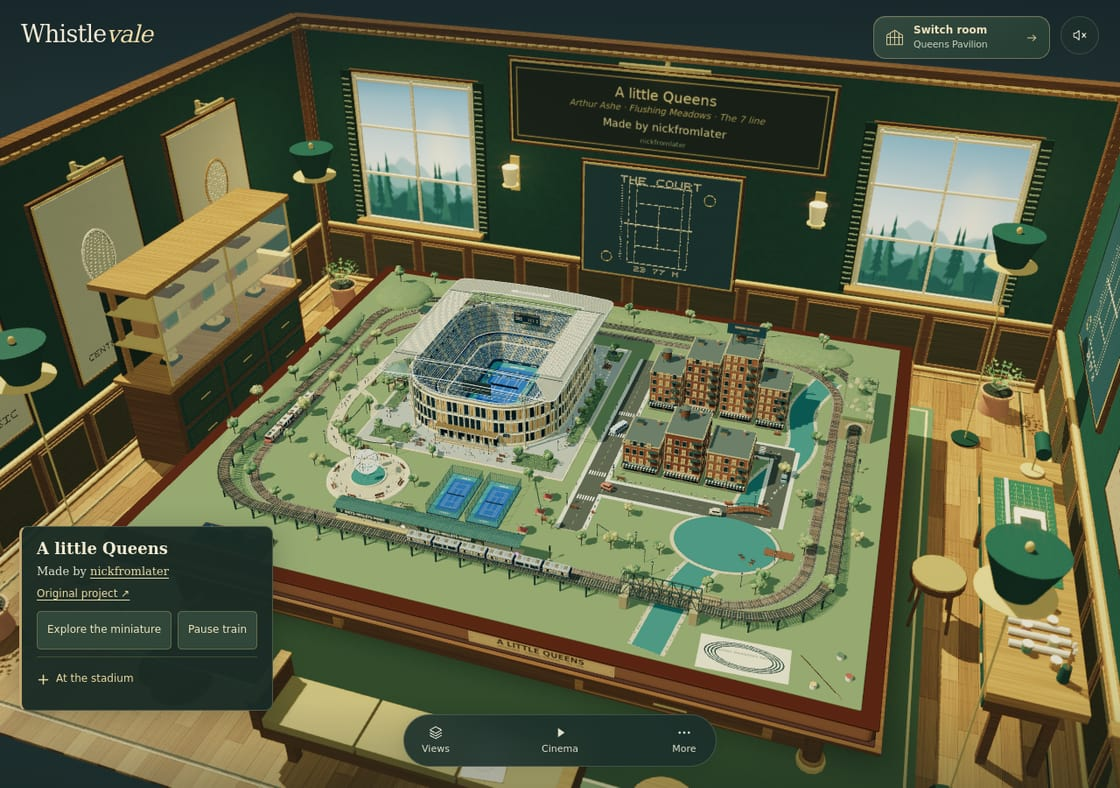
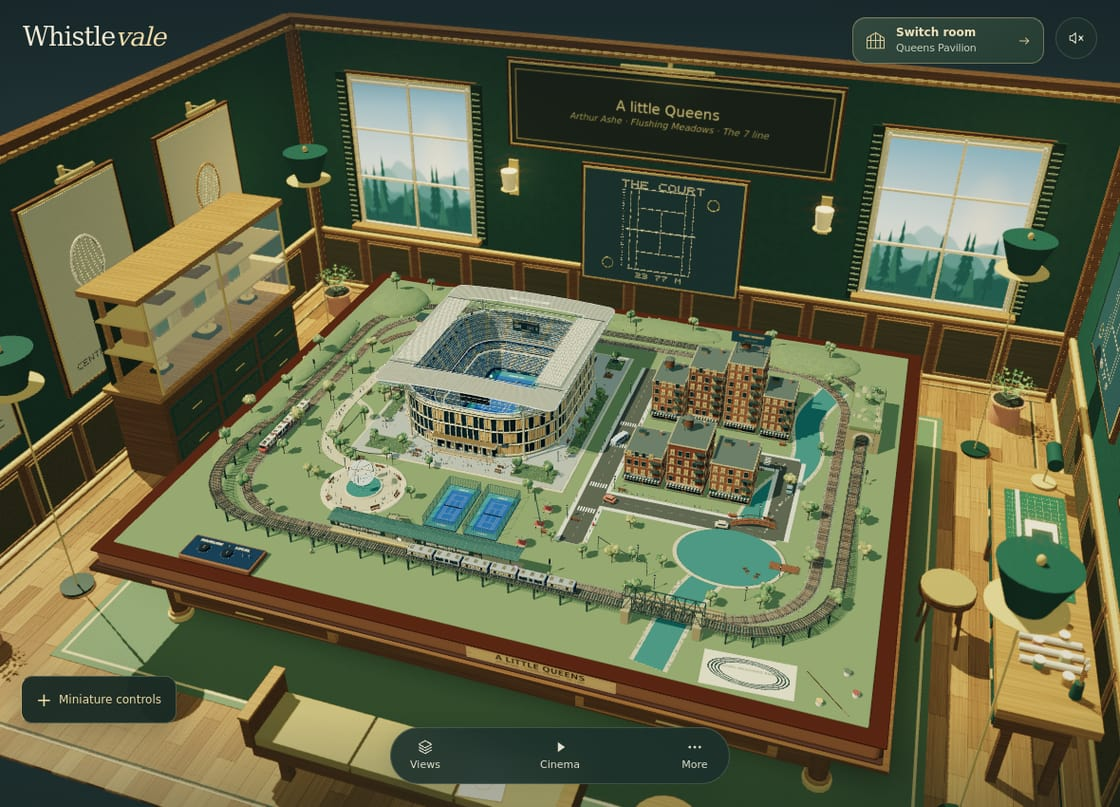
Refine the Queens stadium, court and owner controls
Close facade gaps with a continuous concourse shell and capped balcony
undersides. Complete the canopy and bind its exposed edges. Add painted
court lines, net hardware, racquets, bags, ball baskets and courtside props.

Omit the owner's visible attribution and fold the controls into a compact
tray. Preserve other guest credits and the source/licence records.

Include facade/roof continuity probes and updated visual evidence.

diff --git a/vendor/queens-miniature/model.js b/vendor/queens-miniature/model.js
@@ -45,7 +45,7 @@ function label(text,width,height,{bg='#183b43',fg='#e8e0c8',size=60,font='bold',
 function outline(t,hx,hz,r){const lengths=[2*(hx-r),PI*r/2,2*(hz-r),PI*r/2,2*(hx-r),PI*r/2,2*(hz-r),PI*r/2],total=lengths.reduce((a,b)=>a+b,0);let q=((t%1)+1)%1*total,i=0;for(;i<7&&q>lengths[i];i++)q-=lengths[i];let u=q/lengths[i],a;switch(i){case 0:return [lerp(hx-r,-hx+r,u),hz];case 1:a=PI/2+u*PI/2;return [-hx+r+r*Math.cos(a),hz-r+r*Math.sin(a)];case 2:return [-hx,lerp(hz-r,-hz+r,u)];case 3:a=PI+u*PI/2;return [-hx+r+r*Math.cos(a),-hz+r+r*Math.sin(a)];case 4:return [lerp(-hx+r,hx-r,u),-hz];case 5:a=PI*1.5+u*PI/2;return [hx-r+r*Math.cos(a),-hz+r+r*Math.sin(a)];case 6:return [hx,lerp(-hz+r,hz-r,u)];default:a=u*PI/2;return [hx-r+r*Math.cos(a),hz-r+r*Math.sin(a)];}}
 function perimeter(hx,hz,r){return 4*(hx+hz-2*r)+TAU*r}
 const RSEG=192;
-function ring(hx,hz,r,width,y,depth,material,parent=stadium){const p=[],idx=[];for(let i=0;i<=RSEG;i++){let a=outline(i/RSEG,hx,hz,r),b=outline(i/RSEG,hx+width,hz+width,r+width);p.push(a[0],y,a[1],b[0],y,b[1],a[0],y-depth,a[1],b[0],y-depth,b[1]);if(i<RSEG){let k=i*4;idx.push(k,k+4,k+1,k+1,k+4,k+5,k,k+2,k+4,k+2,k+6,k+4,k+1,k+5,k+3,k+3,k+5,k+7)}}const g=new T.BufferGeometry();g.setAttribute('position',new T.Float32BufferAttribute(p,3));g.setIndex(idx);g.computeVertexNormals();return mesh(g,material,0,0,0,parent)}
+function ring(hx,hz,r,width,y,depth,material,parent=stadium){const p=[],idx=[];for(let i=0;i<=RSEG;i++){let a=outline(i/RSEG,hx,hz,r),b=outline(i/RSEG,hx+width,hz+width,r+width);p.push(a[0],y,a[1],b[0],y,b[1],a[0],y-depth,a[1],b[0],y-depth,b[1]);if(i<RSEG){let k=i*4;idx.push(k,k+4,k+1,k+1,k+4,k+5,k,k+2,k+4,k+2,k+6,k+4,k+1,k+5,k+3,k+3,k+5,k+7,k+2,k+3,k+6,k+3,k+7,k+6)}}const g=new T.BufferGeometry();g.setAttribute('position',new T.Float32BufferAttribute(p,3));g.setIndex(idx);g.computeVertexNormals();return mesh(g,material,0,0,0,parent)}
 function contourWire(hx,hz,r,y,color,parent=stadium){let p=[];for(let i=0;i<=RSEG;i++){let q=outline(i/RSEG,hx,hz,r);p.push([q[0],y,q[1]])}return wire(p,color,1,parent)}
 const glowTex=tex(128,128,(c,w,h)=>{const g=c.createRadialGradient(64,64,1,64,64,64);g.addColorStop(0,'rgba(255,244,211,.75)');g.addColorStop(.14,'rgba(255,231,190,.35)');g.addColorStop(.4,'rgba(255,208,143,.07)');g.addColorStop(1,'rgba(255,209,143,0)');c.fillStyle=g;c.fillRect(0,0,w,h)});
 const glows=[];function glow(x,y,z,size=2.5,opacity=.6,parent=world,color='#ffe2aa'){const sm=new T.SpriteMaterial({map:glowTex,color,blending:T.AdditiveBlending,transparent:true,opacity,depthWrite:false});const m=new T.Sprite(sm);m.position.set(x,y,z);m.scale.set(size,size,1);parent.add(m);glows.push({m,opacity});return m;}
@@ -54,6 +54,17 @@ box(93.2,.6,107.2,0,.49,3,M.cream,world,.2);box(91.5,.19,105.5,0,.83,3,mat('#fff
 await step('Building Arthur Ashe Stadium…');
 // Paved court well and layered seating bowl.
 box(25.8,.5,41.4,0,1.05,0,M.navy,stadium,.15);const court=mesh(new T.PlaneGeometry(24.8,40.4),mat('#ffffff',{map:courtTex,roughness:.94}),0,1.325,0,stadium);court.rotation.x=-PI/2;court.castShadow=false;
+// Thin, opaque paint sits just above the textured acrylic surface. Baselines
+// have a little extra weight; the centre marks read even from the gallery.
+function courtStripe(x1,z1,x2,z2,width=.055){const m=box(Math.hypot(x2-x1,z2-z1),.009,width,(x1+x2)/2,1.337,(z1+z2)/2,M.white,stadium);m.rotation.y=-Math.atan2(z2-z1,x2-x1);m.castShadow=false;}
+for(const x of[-5.485,-4.115,4.115,5.485])courtStripe(x,-11.885,x,11.885);
+for(const z of[-11.885,11.885]){courtStripe(-5.485,z,5.485,z,.10);courtStripe(0,z,0,z-Math.sign(z)*.28,.06);}
+for(const z of[-6.4,6.4])courtStripe(-4.115,z,4.115,z);
+courtStripe(0,-6.4,0,6.4);
+// Dry-brush court wear uses its own deterministic pattern, preserving the
+// original population and paint variations elsewhere in the miniature.
+{const c=courtTex.image.getContext('2d'),X=x=>512+x*1024/24.8,Z=z=>1024+z*2048/40.4;c.save();
+for(let i=0;i<130;i++){const x=Math.sin(i*5.3)*4.8,z=(i%2?1:-1)*(12.15+(Math.sin(i*2.1)+1)*.8);c.strokeStyle=i%3?'#aac8d010':'#102f5711';c.lineWidth=1+(i%3);c.beginPath();c.ellipse(X(x),Z(z),5+i%5,1.4,Math.sin(i)*.4,0,PI);c.stroke();}c.restore();courtTex.needsUpdate=true;}
 ring(12.65,20.45,3.65,.5,2.36,1.15,M.navy);
 // All the tiny chairs are two separate painted parts, with individually varied spectators.
 const chairMat=mat('#ffffff',{roughness:.72}),personMat=mat('#ffffff',{roughness:.94});let seats=0,spectators=0;
@@ -73,7 +84,7 @@ ring(19.65,27.45,10.75,1.5,7.25,.5,M.cream);contourWire(19.75,27.55,10.85,8.05,'
 makeTier(4,21.15,28.95,12.25,8.25,.56,.46);
 ring(23.5,31.3,14.6,1.15,10.4,.45,M.navy);
 makeTier(15,24.65,32.45,15.75,11.15,.58,.62);
-ring(33.4,41.2,24.5,.88,20.55,.72,M.cream);contourWire(33.85,41.65,24.95,21.4,'#d0d6bd');
+ring(33.4,41.2,24.5,1.75,20.55,.72,M.cream);contourWire(33.85,41.65,24.95,21.4,'#d0d6bd');
 // Balcony rails, radial aisle rails, numbered sections and the club level.
 for(let tier of [[19.8,27.6,10.9,7.25],[23.5,31.3,14.6,10.4],[33.8,41.6,24.9,20.6]]){for(let i=0;i<110;i++){const q=outline(i/110,tier[0],tier[1],tier[2]);instance('balustrade',boxGeo,M.steel,[q[0],tier[3]+.38,q[1]],[.045,.78,.045]);}contourWire(tier[0],tier[1],tier[2],tier[3]+.75,'#b5c3b9')}
 for(let section=0;section<24;section++){const t=section/24-.011;for(let tier of [[13.1,20.9,4.2,2.3,19.2,27,10.3,6.7],[24.65,32.45,15.75,11.25,32.8,40.6,23.9,19.9]]){const a=outline(t,tier[0],tier[1],tier[2]),b=outline(t,tier[4],tier[5],tier[6]);rod([a[0],tier[3]+.7,a[1]],[b[0],tier[7]+.7,b[1]],.036,M.steel,stadium,5);for(let i=0;i<5;i++){let u=i/4;rod([lerp(a[0],b[0],u),lerp(tier[3],tier[7],u),lerp(a[1],b[1],u)],[lerp(a[0],b[0],u),lerp(tier[3],tier[7],u)+.7,lerp(a[1],b[1],u)],.025,M.steel,stadium,5)}}}
@@ -88,9 +99,47 @@ const netPos=[];for(let i=0;i<=100;i++){let x=lerp(-6.35,6.35,i/100),top=2.25+.1
 for(let x of [-9.8,9.8]){for(let z of [-5.6,5.6]){box(1.05,.2,2.8,x,1.95,z,M.cream,stadium,.07);box(.18,.6,2.8,x+(x<0?-.5:.5),2.28,z,M.navy,stadium);for(let zz of [-.85,.85])box(.75,.6,.16,x,1.65,z+zz,M.dark,stadium);box(.4,.11,.55,x,2.12,z+.6,M.white,stadium,.04);box(.48,.3,.87,x,1.52,z+1.7,M.clay,stadium,.08)}}
 for(let z of [-.6,.6])for(let x of [-.4,.4])rod([-8.65+x,1.33,z],[-8.65+x*.7,3.7,z*.7],.04,M.steel,stadium);box(1,.15,1,-8.65,3.7,0,M.navy,stadium);for(let i=0;i<6;i++)rod([-9.12,1.55+i*.34,-.5],[-9.12,1.55+i*.34,.5],.035,M.steel,stadium);person(-8.65,3.77,0,-PI/2,.9,true);const umbrella=mesh(new T.ConeGeometry(1.27,.46,8,1,true),M.navy,-8.65,5.07,0,stadium);rod([-8.65,3.8,0],[-8.65,5.08,0],.035,M.steel,stadium);
 for(let i=0;i<6;i++){let x=i%2?-11:11,z=i<2?-18:i<4?18:0;person(x,1.36,z,x<0?PI/2:-PI/2,.82,false);}
+// Net hardware: foot plates, collar rings, winding handles and a sewn strap.
+for(const x of[-6.35,6.35]){box(.34,.06,.34,x,1.37,0,M.dark,stadium,.025);for(const y of[1.55,2.18])mesh(new T.TorusGeometry(.08,.014,5,12),M.brass,x,y,0,stadium).rotation.x=PI/2;rod([x,2.13,0],[x+.19*Math.sign(x),2.13,0],.022,M.brass,stadium);rod([x+.19*Math.sign(x),2.13,0],[x+.19*Math.sign(x),2.01,0],.028,M.navy,stadium);}
+box(.065,.93,.045,0,1.81,.024,M.white,stadium);box(.12,.06,.08,0,1.39,.05,M.brass,stadium);
+// A spare racquet has an oval hoop, a leather grip and individual strings.
+function spareRacquet(x,y,z,angle=0){const g=new T.Group();g.position.set(x,y,z);g.rotation.y=angle;stadium.add(g);const hoop=mesh(new T.TorusGeometry(.26,.026,5,24),M.cream,0,.02,.37,g);hoop.rotation.x=-PI/2;hoop.scale.y=1.3;for(let i=-3;i<=3;i++){const q=i*.065,r=Math.sqrt(.25*.25-q*q);wire([[q,.022,.37-r*1.3],[q,.022,.37+r*1.3]],'#dcd9ba',.9,g);wire([[-r,.024,.37+q*1.3],[r,.024,.37+q*1.3]],'#dcd9ba',.9,g);}for(const side of[-1,1])rod([side*.13,.02,.09],[0,.02,-.15],.019,M.navy,g);rod([0,.02,-.15],[0,.02,-.47],.035,M.woodDark,g);for(let i=0;i<6;i++)rod([-.027,.055,-.19-i*.04],[.027,.055,-.20-i*.04],.008,M.cream,g);}
+const felt=mat('#d6df69',{roughness:1});
+function tennisBall(x,y,z,r=.10){mesh(new T.SphereGeometry(r,8,6),felt,x,y,z,stadium);const seam=[];for(let i=0;i<=20;i++){const a=i*TAU/20;seam.push([x+Math.cos(a)*r*.86,y+Math.sin(a)*r*.86,z+Math.cos(a*2)*r*.35]);}wire(seam,'#f0edbf',.85,stadium);}
+for(const side of[-1,1])for(const z of[-5.6,5.6]){
+ const x=side*8.7,bag=box(.66,.44,1.45,x,1.60,z+.7,side<0?M.navy:M.clay,stadium,.07);bag.rotation.y=side*.12;
+ rod([x-.19,1.86,z+.4],[x-.19,2.04,z+.8],.022,M.cream,stadium);rod([x+.19,1.86,z+.4],[x+.19,2.04,z+.8],.022,M.cream,stadium);rod([x-.19,2.04,z+.8],[x+.19,2.04,z+.8],.022,M.cream,stadium);
+ wire([[x,1.84,z+.05],[x,1.84,z+1.34]],'#d5c4a5',1,stadium);spareRacquet(x,1.86,z+.7,side*.24);
+ for(let i=0;i<3;i++){const bx=side*9.8+(i-1)*.22,bz=z-.75;mesh(new T.CylinderGeometry(.072,.08,.26,8),M.blue,bx,2.19,bz,stadium);mesh(new T.CylinderGeometry(.043,.043,.065,8),M.white,bx,2.35,bz,stadium);}
+ for(let i=0;i<3;i++){box(.45,.045,.62,side*9.8,2.10+i*.05,z+.62,M.white,stadium,.015);box(.46,.013,.035,side*9.8,2.128+i*.05,z+.83,M.blue,stadium);}
+}
+// Wire ball baskets on casters, away from the players' run-off lanes.
+for(const [x,z]of[[-10.65,-12.8],[10.65,12.8]]){
+ for(const dx of[-.32,.32])for(const dz of[-.33,.33]){rod([x+dx,1.43,z+dz],[x+dx,2.15,z+dz],.024,M.steel,stadium);mesh(new T.SphereGeometry(.075,7,5),M.navy,x+dx,1.41,z+dz,stadium);}
+ for(const y of[1.94,2.08,2.22,2.37,2.52])wire([[x-.4,y,z-.42],[x+.4,y,z-.42],[x+.4,y,z+.42],[x-.4,y,z+.42],[x-.4,y,z-.42]],'#ced1b9',1,stadium);
+ for(let i=0;i<6;i++){const d=-.4+i*.16;for(const side of[-1,1]){rod([x+d,1.94,z+side*.42],[x+d,2.52,z+side*.42],.012,M.steel,stadium);rod([x+side*.4,1.94,z+d],[x+side*.4,2.52,z+d],.012,M.steel,stadium);}}
+ box(.77,.035,.8,x,1.93,z,M.navy,stadium);for(let i=0;i<12;i++)tennisBall(x+((i%3)-1)*.21,2.31+(i%2)*.05,z+(Math.floor(i/3)-1.5)*.19,.102);
+}
+// Umpire seat rails, a foot rest and the little scoring console.
+box(.88,.55,.12,-8.65,4.06,-.44,M.navy,stadium,.035);box(.7,.10,.52,-8.24,2.85,0,M.steel,stadium);
+for(const z of[-.44,.44])rod([-9.07,3.77,z],[-9.07,4.16,z],.026,M.steel,stadium);
+box(.43,.085,.32,-8.13,3.96,.25,M.dark,stadium,.025);box(.33,.018,.23,-8.13,4.016,.25,M.blue,stadium);
+// Quiet broadcast cameras, their wired headsets and padded tripods.
+for(const side of[-1,1]){const x=side*10.55,z=-16.65;
+for(let i=0;i<3;i++){const a=i*TAU/3;rod([x+Math.cos(a)*.45,1.38,z+Math.sin(a)*.45],[x,2.61,z],.034,M.steel,stadium);}
+box(.55,.37,.78,x,2.77,z,M.navy,stadium,.04);rod([x,2.78,z+.37],[x,2.78,z+.7],.11,M.dark,stadium,10);rod([x,2.78,z+.7],[x,2.78,z+.74],.088,M.glass,stadium,10);box(.21,.17,.23,x+side*.3,2.87,z-.17,M.dark,stadium);wire([[x,2.61,z],[x+.15,1.48,z-.2],[x+.7,1.37,z-.35],[side*11.8,1.37,-17.4]],'#233d43',1,stadium);
+}
+// Flush courtside clocks and lavender planters complete the boundary.
+for(const side of[-1,1]){const z=side*19.92;box(1.65,.96,.16,8.95,1.87,z,M.dark,stadium,.04);const clock=label('25',1.36,.57,{bg:'#102d35',fg:'#e2c585',size:290},stadium);clock.position.set(8.95,1.91,z-side*.1);if(side>0)clock.rotation.y=PI;
+for(const x of[-10.6,10.6]){box(1.35,.36,.63,x,1.52,side*18.9,M.cream,stadium,.06);box(1.20,.05,.51,x,1.71,side*18.9,M.soil,stadium);for(let i=0;i<7;i++){const xx=x+(i-3)*.15,zz=side*18.9+Math.sin(i*4)*.16;rod([xx,1.71,zz],[xx+.03,1.94+(i%3)*.04,zz],.014,M.grass,stadium);mesh(headGeo,i%2?M.white:M.blue,xx+.03,1.96+(i%3)*.04,zz,stadium).scale.set(.055,.105,.055);}}
+}
 // Exterior: closely spaced concrete ribs, warm concourse windows, balcony bands.
+// A continuous, two-sided solid wall sits behind the decorative glazing.
+// Panel spacing and the open underside of the old rings exposed the room.
+const facade=mat('#233d47',{roughness:.55});facade.name='Queens opaque concourse';
+ring(34.1,41.9,25.2,.56,20.54,19.44,facade);
 for(let band of [[34.6,42.4,25.7,2.05,1.0],[34.65,42.45,25.75,7.0,.45],[34.6,42.4,25.7,13.1,.5],[34.6,42.4,25.7,19.55,.5]])ring(band[0],band[1],band[2],.9,band[3],band[4],M.cream);
-for(let i=0;i<104;i++){const t=i/104,q=outline(t,34.9,42.7,26),qq=outline(t+.0001,34.9,42.7,26),ang=Math.atan2(-(qq[1]-q[1]),qq[0]-q[0]);const col=box(.47,17.7,.72,q[0],10.45,q[1],M.cream,stadium);col.rotation.y=ang;for(let yy of [4.5,9.8,16.4]){let q2=outline((i+.5)/104,34.85,42.65,25.95);const panel=box(1.62,yy===16.4?4.9:4.5,.22,q2[0],yy,q2[1],rand()>.52?windowMat:M.glass,stadium);panel.rotation.y=ang;box(.07,yy===16.4?4.9:4.5,.35,q2[0],yy,q2[1],M.dark,stadium).rotation.y=ang;}
+for(let i=0;i<104;i++){const t=i/104,q=outline(t,34.9,42.7,26),qq=outline(t+.0001,34.9,42.7,26),ang=Math.atan2(-(qq[1]-q[1]),qq[0]-q[0]);const col=box(.47,17.7,.72,q[0],10.45,q[1],M.cream,stadium);col.rotation.y=ang;for(let yy of [4.5,9.8,16.4]){let q2=outline((i+.5)/104,34.85,42.65,25.95);const panel=box(2.12,yy===16.4?4.9:4.5,.22,q2[0],yy,q2[1],rand()>.52?windowMat:M.glass,stadium);panel.rotation.y=ang;box(.07,yy===16.4?4.9:4.5,.35,q2[0],yy,q2[1],M.dark,stadium).rotation.y=ang;}
 }
 // Broad southern entry pavilion and tiny doors.
 box(28.4,1.1,4.4,0,6.55,43.2,M.cream,stadium,.15);box(27.7,.16,4.6,0,7.15,43.2,M.brass,stadium,.06);for(let x=-12;x<=12;x+=4){box(.5,5.3,.65,x,3.66,44.7,M.cream,stadium);box(2.5,3.45,.15,x,2.95,43.3,M.glass,stadium);box(.045,3.4,.19,x,2.95,43.42,M.brass,stadium);glow(x,5.9,44.25,3.1,.45);box(1.2,.12,.15,x,6.01,44.45,warmMat,stadium)}
@@ -103,8 +152,10 @@ for(let [x,z] of roofColumns){box(2.1,1.15,2.3,x,1.54,z,M.cream,stadium,.2);cons
 function roofY(x,z){return 28.9+1.5*(1-Math.pow(Math.abs(x)/39,2))+.5*(1-Math.pow(Math.abs(z)/45,2));}
 // Cloth roof annulus with a generous open center, seam lines and fine battens.
 {
-const pos=[],idx=[],uv=[];const steps=192;for(let i=0;i<=steps;i++){const a=outline(i/steps,27.4,32.5,1.0),b=outline(i/steps,38.8,44.5,3.2);for(let j=0;j<=5;j++){let u=j/5,x=lerp(a[0],b[0],u),z=lerp(a[1],b[1],u);pos.push(x,roofY(x,z)+.12*Math.sin(u*PI),z);uv.push(x/12,z/12);if(i>=45&&i<steps&&j<5){let k=i*6+j;idx.push(k,k+1,k+6,k+1,k+7,k+6)}}}const g=new T.BufferGeometry();g.setAttribute('position',new T.Float32BufferAttribute(pos,3));g.setAttribute('uv',new T.Float32BufferAttribute(uv,2));g.setIndex(idx);g.computeVertexNormals();const canopy=mesh(g,M.roof,0,0,0,roof);roofCanopies.push(canopy);
-for(let i=0;i<36;i++){const a=outline(i/36,27.4,32.5,1),b=outline(i/36,38.8,44.5,3.2);let p=[];for(let j=0;j<=8;j++){let u=j/8,x=lerp(a[0],b[0],u),z=lerp(a[1],b[1],u);p.push([x,roofY(x,z)+.07,z])}if(i>=9)wire(p,'#bcb9a8',.43,roof)}
+const pos=[],idx=[],uv=[];const steps=192;for(let i=0;i<=steps;i++){const a=outline(i/steps,27.4,32.5,1.0),b=outline(i/steps,38.8,44.5,3.2);for(let j=0;j<=5;j++){let u=j/5,x=lerp(a[0],b[0],u),z=lerp(a[1],b[1],u);pos.push(x,roofY(x,z)+.12*Math.sin(u*PI),z);uv.push(x/12,z/12);if(i<steps&&j<5){let k=i*6+j;idx.push(k,k+1,k+6,k+1,k+7,k+6)}}}const g=new T.BufferGeometry();g.setAttribute('position',new T.Float32BufferAttribute(pos,3));g.setAttribute('uv',new T.Float32BufferAttribute(uv,2));g.setIndex(idx);g.computeVertexNormals();const canopy=mesh(g,M.roof,0,0,0,roof);roofCanopies.push(canopy);
+// Bound edges give the membrane thickness from low camera angles.
+for(const dims of[[27.4,32.5,1],[38.8,44.5,3.2]]){const p=[],ix=[];for(let i=0;i<=steps;i++){const q=outline(i/steps,...dims),y=roofY(q[0],q[1]);p.push(q[0],y,q[1],q[0],y-.25,q[1]);if(i<steps){const k=i*2;ix.push(k,k+1,k+2,k+1,k+3,k+2);}}const edge=new T.BufferGeometry();edge.setAttribute('position',new T.Float32BufferAttribute(p,3));edge.setIndex(ix);edge.computeVertexNormals();mesh(edge,M.roof,0,0,0,roof);}
+for(let i=0;i<36;i++){const a=outline(i/36,27.4,32.5,1),b=outline(i/36,38.8,44.5,3.2);let p=[];for(let j=0;j<=8;j++){let u=j/8,x=lerp(a[0],b[0],u),z=lerp(a[1],b[1],u);p.push([x,roofY(x,z)+.07,z])}wire(p,'#bcb9a8',.43,roof)}
 for(let dims of [[27.4,32.5,1],[38.8,44.5,3.2]]){let p=[];for(let i=0;i<=192;i++){let a=outline(i/192,...dims);p.push([a[0],roofY(a[0],a[1]),a[1]])}wire(p,'#e7e6d8',1,roof)}
 }
 function truss(a,b,height=2.5,segments=18){rod(a,b,.14,M.steel,roof,6);const aa=[a[0],a[1]-height,a[2]],bb=[b[0],b[1]-height,b[2]];rod(aa,bb,.13,M.steel,roof,6);for(let i=0;i<=segments;i++){const u=i/segments,x=lerp(a[0],b[0],u),y=lerp(a[1],b[1],u),z=lerp(a[2],b[2],u);rod([x,y,z],[x,y-height,z],.052,M.roofMetal,roof,5);if(i<segments){const v=(i+1)/segments;rod([x,i%2?y-height:y,z],[lerp(a[0],b[0],v),lerp(a[1],b[1],v)-(i%2?0:height),lerp(a[2],b[2],v)],.059,M.roofMetal,roof,5)}}}

diff --git a/src/embedded.js b/src/embedded.js
@@ -14,7 +14,7 @@ function registerEmbeddedProject(room,definition){
  EMBEDDED_PROJECTS[room]=record;return record;
 }
 const embeddedProject=room=>EMBEDDED_PROJECTS[room]||null;
-const embeddedCreditLine=project=>project.title+' · by '+project.credits[0].name;
+const embeddedCreditLine=project=>project.title+(project.showAttribution===false?'':' · by '+project.credits[0].name);
 
 function embeddedAttribution(project){
  const wrap=document.createElement('div');wrap.className='embed-credit';
@@ -50,7 +50,7 @@ function embeddedEnter(room){
  stage.hidden=false;stage.dataset.state='loading';document.body.classList.add('has-embed');
  stage.setAttribute('aria-busy','true');
  const title=stage.querySelector('.embed-loading-title'),by=stage.querySelector('.embed-loading-by');
- if(title)title.textContent=project.title;if(by)by.textContent='An original miniature by '+project.credits[0].name;
+ if(title)title.textContent=project.title;if(by){by.hidden=project.showAttribution===false;by.textContent=by.hidden?'':'An original miniature by '+project.credits[0].name;}
  const sketch=stage.querySelector('#embedBuild');if(sketch)sketch.classList.remove('done');
  if(typeof embeddedBuildShapes==='function'&&project.table){
   active.build={stages:(project.buildShapes||embeddedBuildShapes)(project.table),revealed:-1,edge:0,at:performance.now(),warm:0};
@@ -59,7 +59,7 @@ function embeddedEnter(room){
  // Offline notices live in the credit dock. Restore the status node before
  // replacing that dock on re-entry so the normal loading path can reuse it.
  stage.querySelector('.embed-loading').append(stage.querySelector('#embedStatus'));
- const dock=stage.querySelector('#embedCredit');dock.replaceChildren(embeddedAttribution(project));
+ const dock=stage.querySelector('#embedCredit');dock.replaceChildren(...(project.showAttribution===false?[]:[embeddedAttribution(project)]));
  const actions=document.createElement('div');actions.className='embed-actions';
  const closer=document.createElement('button');closer.id='embedCloser';closer.textContent='Explore the miniature';
  closer.onclick=()=>{setView('overview',false);Object.assign(orbit,{target:project.focus.slice(),distance:innerWidth<700?project.phoneDistance:project.distance,pitch:.43,yaw:.3});};
@@ -70,7 +70,7 @@ function embeddedEnter(room){
  // A portable HTML keeps the room and credits; the vendored module graph is
  // intentionally not embedded into that file. Do not try to fetch file:// URLs.
  if(!/^https?:$/.test(location.protocol)){
-  stage.dataset.state='unavailable';stage.setAttribute('aria-busy','false');status.textContent='Visit the online house to explore this guest miniature. The original project is linked above.';
+  stage.dataset.state='unavailable';stage.setAttribute('aria-busy','false');status.textContent=project.showAttribution===false?'Visit the online house to explore this miniature.':'Visit the online house to explore this guest miniature. The original project is linked above.';
   stage.querySelector('.embed-loading').hidden=true;pause.hidden=true;dock.append(status);return active;
  }
  active.timer=setTimeout(()=>{active.timer=0;embeddedMount(active);},520);

diff --git a/src/guest-queens.js b/src/guest-queens.js
@@ -73,7 +73,7 @@ async function createQueensMiniature({project,signal,host,mount,progress}){
  let disposed=false,depth=null,model=null,tools=null;
  const data=embeddedStage().dataset;
  const dispose=()=>{
-  if(disposed)return;disposed=true;signal.removeEventListener('abort',dispose);tools?.remove();
+  if(disposed)return;disposed=true;signal.removeEventListener('abort',dispose);tools?.remove();embeddedStage().querySelector('#embedCredit').classList.remove('queens-compact-controls');
   queensDisposeScene(scene);if(depth)queensDisposeScene(depth.scene);
   renderer.setAnimationLoop(null);renderer.dispose();renderer.forceContextLoss();canvas.remove();
   data.context=renderer.getContext().isContextLost()?'released':'release-requested';
@@ -106,15 +106,17 @@ async function createQueensMiniature({project,signal,host,mount,progress}){
    const p=train.p,f=train.f,side=p[0]*f[2]-p[2]*f[0]>0?1:-1;
    return {target:[p[0],p[1]+.8,p[2]],position:[p[0]+f[2]*side*9*portrait+f[0]*6,p[1]+5.4,p[2]-f[0]*side*9*portrait+f[2]*6],groundHandled:true};
   }
-  tools=document.createElement('details');tools.className='queens-tools';
-  const heading=document.createElement('summary');heading.textContent='At the stadium';
+  tools=document.createElement('details');tools.className='queens-controls';
+  const heading=document.createElement('summary');heading.textContent='Miniature controls';
+  const controls=document.createElement('div');controls.className='queens-controls-body';
   const actions=document.createElement('div');actions.className='embed-actions';
   const roof=document.createElement('button');roof.id='queensRoof';roof.textContent='Lift stadium roof';roof.setAttribute('aria-pressed','false');
   roof.onclick=()=>{const open=model.stats().roofTarget<.5;model.setRoof(open);roof.setAttribute('aria-pressed',String(open));roof.textContent=open?'Replace roof':'Lift stadium roof';};
   const play=document.createElement('button');play.id='queensPoint';play.textContent='Play final point';
   play.onclick=()=>{if(embeddedActive?.paused)document.getElementById('embedPause').click();if(paused)togglePause();model.play();setView('overview',false);Object.assign(orbit,{target:queensWorld([-25,3,-16]),distance:innerWidth<700?31:28,pitch:1.03,yaw:.10});};
   const note=document.createElement('p');note.className='queens-point-note';note.textContent='A miniature final, imagined for this little world.';
-  actions.append(roof,play);tools.append(heading,actions,note);embeddedStage().querySelector('#embedCredit').append(tools);
+  const dock=embeddedStage().querySelector('#embedCredit');
+  actions.append(roof,play);controls.append(dock.querySelector('.embed-actions'),actions,note);tools.append(heading,controls);dock.classList.add('queens-compact-controls');dock.append(tools);
   let last=0,width=0,height=0,lastNight=-1,lastShadow=-Infinity,reportAt=0,frames=0,cpu=0,wasPlaying=false;
   return {dispose,views,cinemaView,train,readTrainPose,inspect:()=>model.stats(),frame(state){
    if(disposed)return;const start=performance.now();

diff --git a/src/hobby.css b/src/hobby.css
@@ -300,12 +300,14 @@
 .embed-actions button:hover{background:#3d5542}
 .embed-actions button:disabled{opacity:.5;cursor:default}
 .embed-credit-dock :focus-visible{outline:2px solid #ecd8a3;outline-offset:3px}
-.queens-tools{margin-top:8px;border-top:1px solid #b3a06b44;padding-top:2px}
-.queens-tools summary{min-height:44px;display:flex;align-items:center;gap:8px;cursor:pointer;font:12px Arial,sans-serif;color:#ecd8a3;list-style:none}
-.queens-tools summary::-webkit-details-marker{display:none}
-.queens-tools summary::before{content:'+';font-size:18px;width:14px}
-.queens-tools[open] summary::before{content:'−'}
-.queens-tools .embed-actions{margin-top:0}
+.embed-credit-dock.queens-compact-controls{right:auto;max-width:calc(100vw - 28px);padding:0;border-left-width:1px;border-radius:12px}
+.queens-controls summary{min-height:48px;padding:0 15px;display:flex;align-items:center;gap:10px;cursor:pointer;font:12px Arial,sans-serif;color:#ecd8a3;list-style:none}
+.queens-controls summary::-webkit-details-marker{display:none}
+.queens-controls summary::before{content:'+';font-size:20px;width:14px}
+.queens-controls[open] summary::before{content:'−'}
+.queens-controls-body{width:min(326px,calc(100vw - 54px));padding:0 12px 12px}
+.queens-controls-body .embed-actions{margin-top:7px}
+.queens-controls-body .embed-actions button{flex:1}
 .queens-point-note{font:italic 11px/1.4 Georgia,serif;color:#b7c1a6;margin:9px 0 0}
 @media(max-width:760px){
  .embed-loading{width:min(300px,calc(100vw - 24px));padding:13px 13px 12px}
@@ -324,6 +326,7 @@ body.has-embed.cinematic .cinema-separator{display:none}
 .embed-loading-kicker{margin:0 0 6px;font:9px Arial,sans-serif;letter-spacing:1.8px;text-transform:uppercase;color:#c2a672}
 .embed-loading-title{display:block;font:18px/1.25 Georgia,serif;color:#f1ead2}
 .embed-loading-by{display:block;margin-top:4px;font:italic 12px/1.45 Georgia,serif;color:#b3c0ab}
+.embed-loading-by[hidden]{display:none}
 .embed-steps{display:flex;flex-wrap:wrap;gap:4px 6px;margin:11px 0 0;padding:0;list-style:none}
 .embed-steps li{font:9px Arial,sans-serif;letter-spacing:.9px;text-transform:uppercase;color:#71806c;
  border:1px solid #71806c4d;border-radius:3px;padding:3px 6px;transition:color .35s,border-color .35s,background .35s}

diff --git a/src/rooms/queens.js b/src/rooms/queens.js
@@ -6,7 +6,7 @@ const QUEENS_TABLE={top:-7.8,halfWidth:51.3,halfDepth:43.5};
 const QUEENS_PROJECT=registerEmbeddedProject('queens',{
  base:'vendor/queens-miniature/',create:createQueensMiniature,
  roomName:'The Queens Pavilion',title:'A little Queens',subtitle:'Arthur Ashe · Flushing Meadows · The 7 line',
- source:'https://github.com/nickfromlater/whistlevale',licence:'MIT',
+ source:'https://github.com/nickfromlater/whistlevale',licence:'MIT',showAttribution:false,
  credits:[{name:'nickfromlater',platform:'github',handle:'nickfromlater',note:'Original US Open tabletop world and Queens Pavilion; built with agent assistance.'}],
  table:QUEENS_TABLE,focus:queensWorld([0,7,0]),distance:132,phoneDistance:240,
  buildShapes:queensBuildShapes,buildStages:QUEENS_BUILD_STAGES,
@@ -238,7 +238,7 @@ function buildQueensRoom(scene,b){
   {name:'Mets–Willets Point',detail:'Wait for the silver 7 at the green-roofed station.',target:queensWorld([-23,7,65]),distance:25,phoneDistance:39,pitch:.40,yaw:.70},
   {name:'The racquet collection',detail:'Wire-strung racquets, leather grips and miniature silverware.',target:[-71,7,-7],distance:46,phoneDistance:65,pitch:.13,yaw:-1.25},
   {name:'The maker’s bench',detail:'Cutting mat, brass tools, paint pots, paper stadium parts and a lamp still on.',target:[68,FLOOR+15,9],distance:37,phoneDistance:57,pitch:.46,yaw:1.4},
-  {name:'The maker’s plaque',detail:embeddedCreditLine(QUEENS_PROJECT)+'.',target:[0,22,-62.2],distance:47,phoneDistance:90,pitch:.01,yaw:0}
+  {name:'The pavilion inscription',detail:'Arthur Ashe, Flushing Meadows and the 7 line.',target:[0,22,-62.2],distance:47,phoneDistance:90,pitch:.01,yaw:0}
  ];
  return scene;
 }

diff --git a/src/rooms.js b/src/rooms.js
@@ -42,11 +42,11 @@ function initEmbeddedArt(){
    c.fillStyle='#2c3832';c.fillRect(0,0,cw,ch);
    c.strokeStyle='#b19a62';c.lineWidth=3;c.strokeRect(11,11,cw-22,ch-22);
    c.textAlign='center';
-   c.fillStyle='#e6d6a9';c.font='34px Georgia';c.fillText(project.title,cw/2,60);
-   if(project.subtitle){c.fillStyle='#c3b483';c.font='italic 22px Georgia';c.fillText(project.subtitle,cw/2,92);}
-   c.fillStyle='#efe2bd';c.font='27px Georgia';c.fillText('Made by '+(by?.name||'a guest'),cw/2,project.subtitle?136:122);
+   c.fillStyle='#e6d6a9';c.font='34px Georgia';c.fillText(project.title,cw/2,project.showAttribution===false?88:60);
+   if(project.subtitle){c.fillStyle='#c3b483';c.font='italic 22px Georgia';c.fillText(project.subtitle,cw/2,project.showAttribution===false?120:92);}
+   if(project.showAttribution!==false){c.fillStyle='#efe2bd';c.font='27px Georgia';c.fillText('Made by '+(by?.name||'a guest'),cw/2,project.subtitle?136:122);}
    c.fillStyle='#a9b79c';c.font='17px Arial';
-   c.fillText(by&&by.platform==='x'?'@'+by.handle:by?.handle||'',cw/2,project.subtitle?170:158);
+   if(project.showAttribution!==false)c.fillText(by&&by.platform==='x'?'@'+by.handle:by?.handle||'',cw/2,project.subtitle?170:158);
   });
  }
 }

diff --git a/docs/rooms/queens.md b/docs/rooms/queens.md
@@ -12,6 +12,12 @@ Mets–Willets Point station, Queens shops, parks, practice courts, globe founta
 creek, boats, footbridge, railway bridges and a tunnel. The stadium retains
 8,198 individually painted chairs and its miniature audience.
 
+The facade has a continuous opaque concourse behind the glazing, closed
+balcony undersides and a complete roof canopy with bound edges. The court has
+crisp painted lines, net collars and winders, spare wire-strung racquets,
+stitched bags, bottles, folded towels, wheeled ball baskets, a scoring console,
+broadcast cameras and small courtside planters.
+
 The native room is a tennis pavilion with green walls, walnut paneling,
 parquet, brass picture lights, wire-strung racquets, a glazed trophy cabinet,
 court drawings, banker lamp, cutting mat, paint pots, rolled plans, ferns,
@@ -21,14 +27,17 @@ the live map while the guest renderer is absent.
 
 ## Explore
 
+- **Miniature controls** opens the compact control tray. The owner requested
+  no visible attribution card for this room; the source and licence records
+  remain attached to the work. The wall inscription names the model and place.
 - **Explore the miniature** frames the complete tabletop.
 - **Pause train** stops both railways, traffic and model animation. Reduced
   motion starts paused. Global pause remains effective too.
-- **At the stadium** opens roof and final-point controls. The imagined point
+- **Lift stadium roof** and **Play final point** are in the same tray. The imagined point
   moves the camera courtside, lifts the roof, animates a rally and celebration,
   and updates the miniature scoreboard. Scores are not live.
 - **Views → Places** includes the stadium, station, racquet collection,
-  maker's bench and attribution plaque.
+  maker's bench and pavilion inscription.
 - **Cinema** offers Arthur Ashe, At the station, A little Queens and Follow
   the 7. House drag, pinch, keyboard framing and manual/automatic controls remain.
 - House atmosphere controls govern day/night lighting. The pavilion is an
@@ -50,12 +59,12 @@ Re-entry builds a fresh scene. The house owns the single animation schedule.
 The two renderers share projected depth, but cannot exchange shadows or glass
 reflections. The house's fullscreen lens effect does not process the guest
 canvas. Portable HTML retains the furnished room, low relief map model,
-attribution and source links; the detailed guest module is available in the
+source credit records; the detailed guest module is available in the
 online house, following the existing Yamaai export behavior. The original
 standalone HTML remains a separate self-contained artifact.
 
 This is a handcrafted interpretation. The court uses regulation proportions,
-but the seating count, cutaway roof, rail curves and condensed neighbourhood
+but the seating count, lifting roof, rail curves and condensed neighbourhood
 serve the tabletop composition rather than survey accuracy. There is no live
 score service or official association.
 
@@ -64,7 +73,8 @@ score service or official association.
 Run `npm test`, `npm run test:geometry:full`,
 `npm run check:contributions -- --json` and `npm run test:queens`.
 The focused check covers room geometry and footprint, attribution atlas slots,
-camera/depth equivalence, original model counts, closed rail curves, station
+camera/depth equivalence, opaque facade and roof continuity from both sides,
+original model counts, closed rail curves, station
 stopping, pause, roof and match choreography, and pinned source identity.
 
 Browser screenshots, export files and measured reports belong in ignored

diff --git a/vendor/queens-miniature/SOURCE.md b/vendor/queens-miniature/SOURCE.md
@@ -34,6 +34,15 @@ are retained. Presentation changes:
 - Guest shadows are limited to 2048 pixels, or 1536 on narrow viewports. A
   separate native depth pass preserves room and furniture occlusion.
 - The roof and imagined final point are driven through an explicit model API.
+- The facade now has an opaque concourse shell behind its glazing, closed
+  balcony undersides and wider window panels. The canopy's missing sector is
+  filled and its edges are bound; the roof still lifts through the same API.
+- Added painted court lines, wear marks, net hardware, spare racquets,
+  stitched bags, bottles, towels, ball baskets, cameras, courtside clocks,
+  planters and umpire details. Original crowd/seat counts remain unchanged.
+- At the owner's request, Queens omits its visible attribution card and
+  authorship text on the wall inscription. Controls fold into one compact tray.
+  The original source and licence records are retained.
 
 `three.module.min.js` is the unchanged ES-module build of **Three.js 0.160.1**,
 from `https://cdn.jsdelivr.net/npm/three@0.160.1/build/three.module.min.js`.
